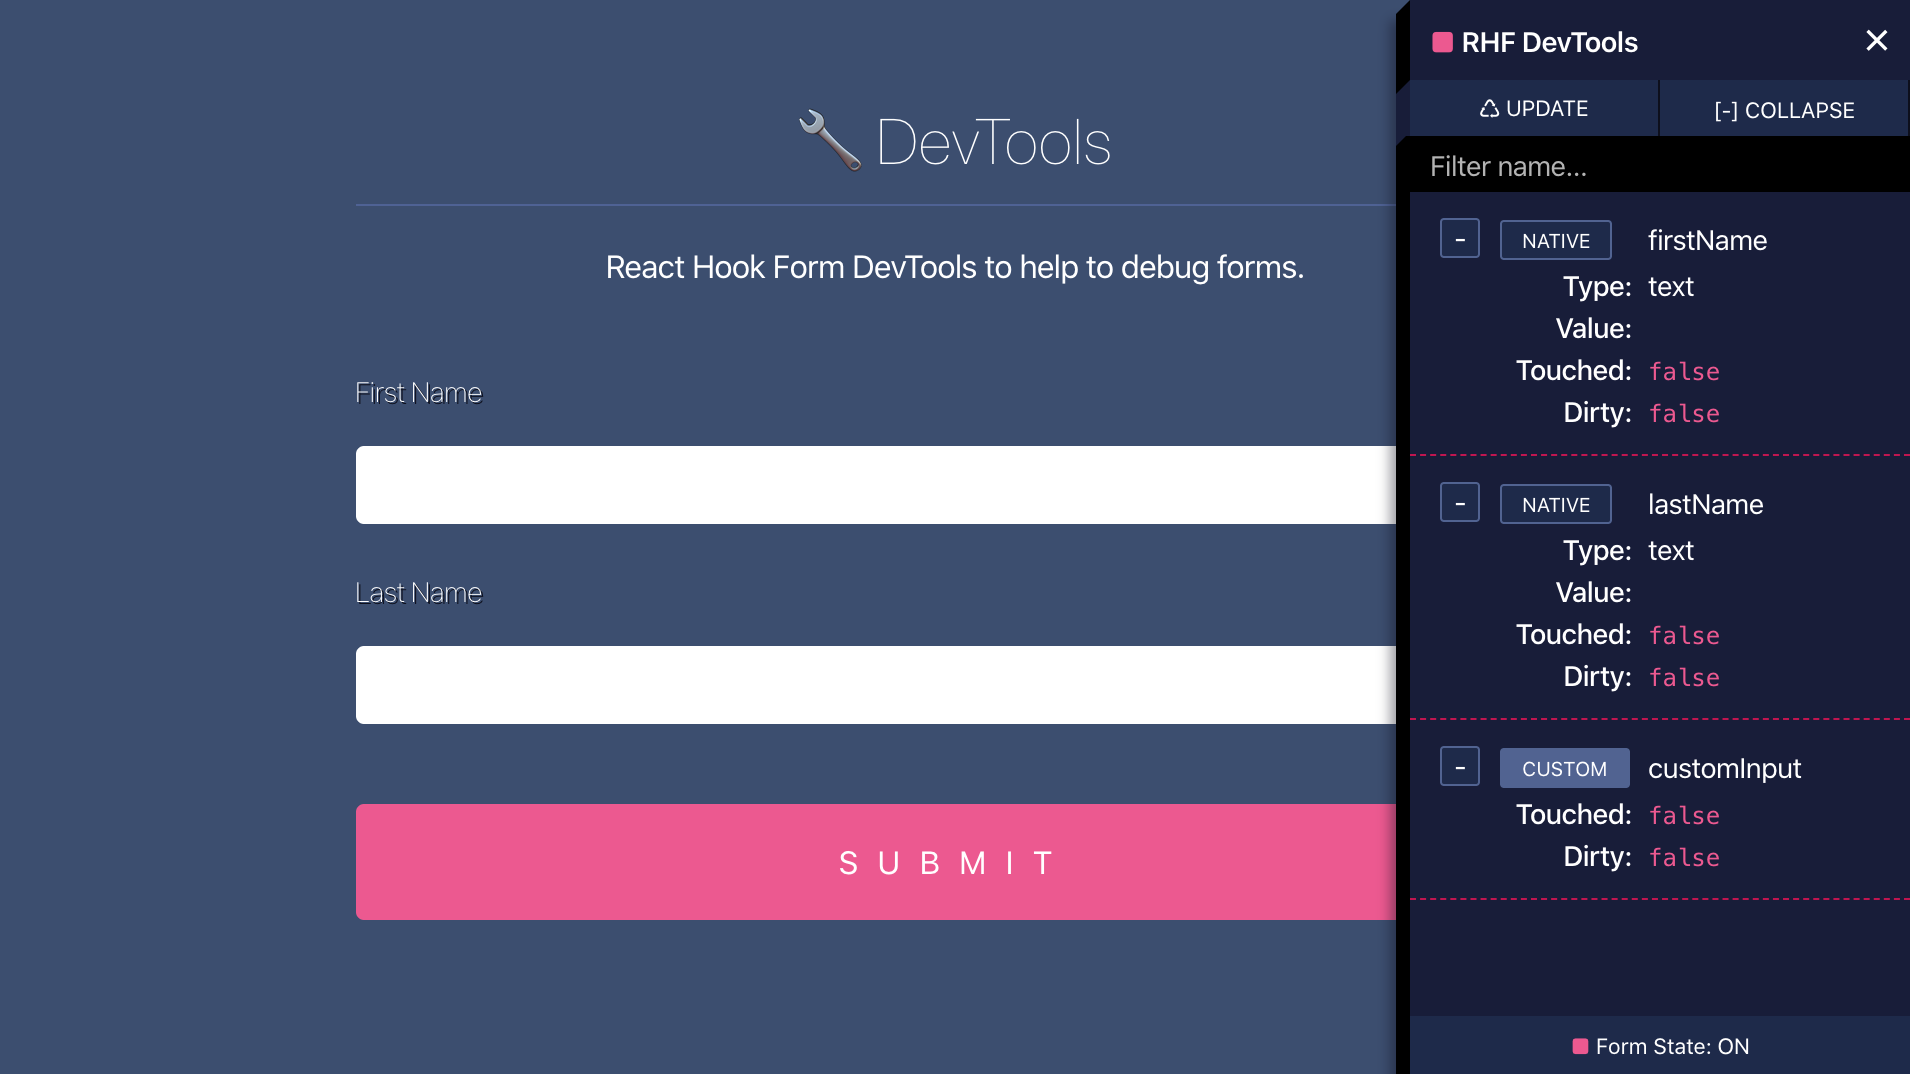
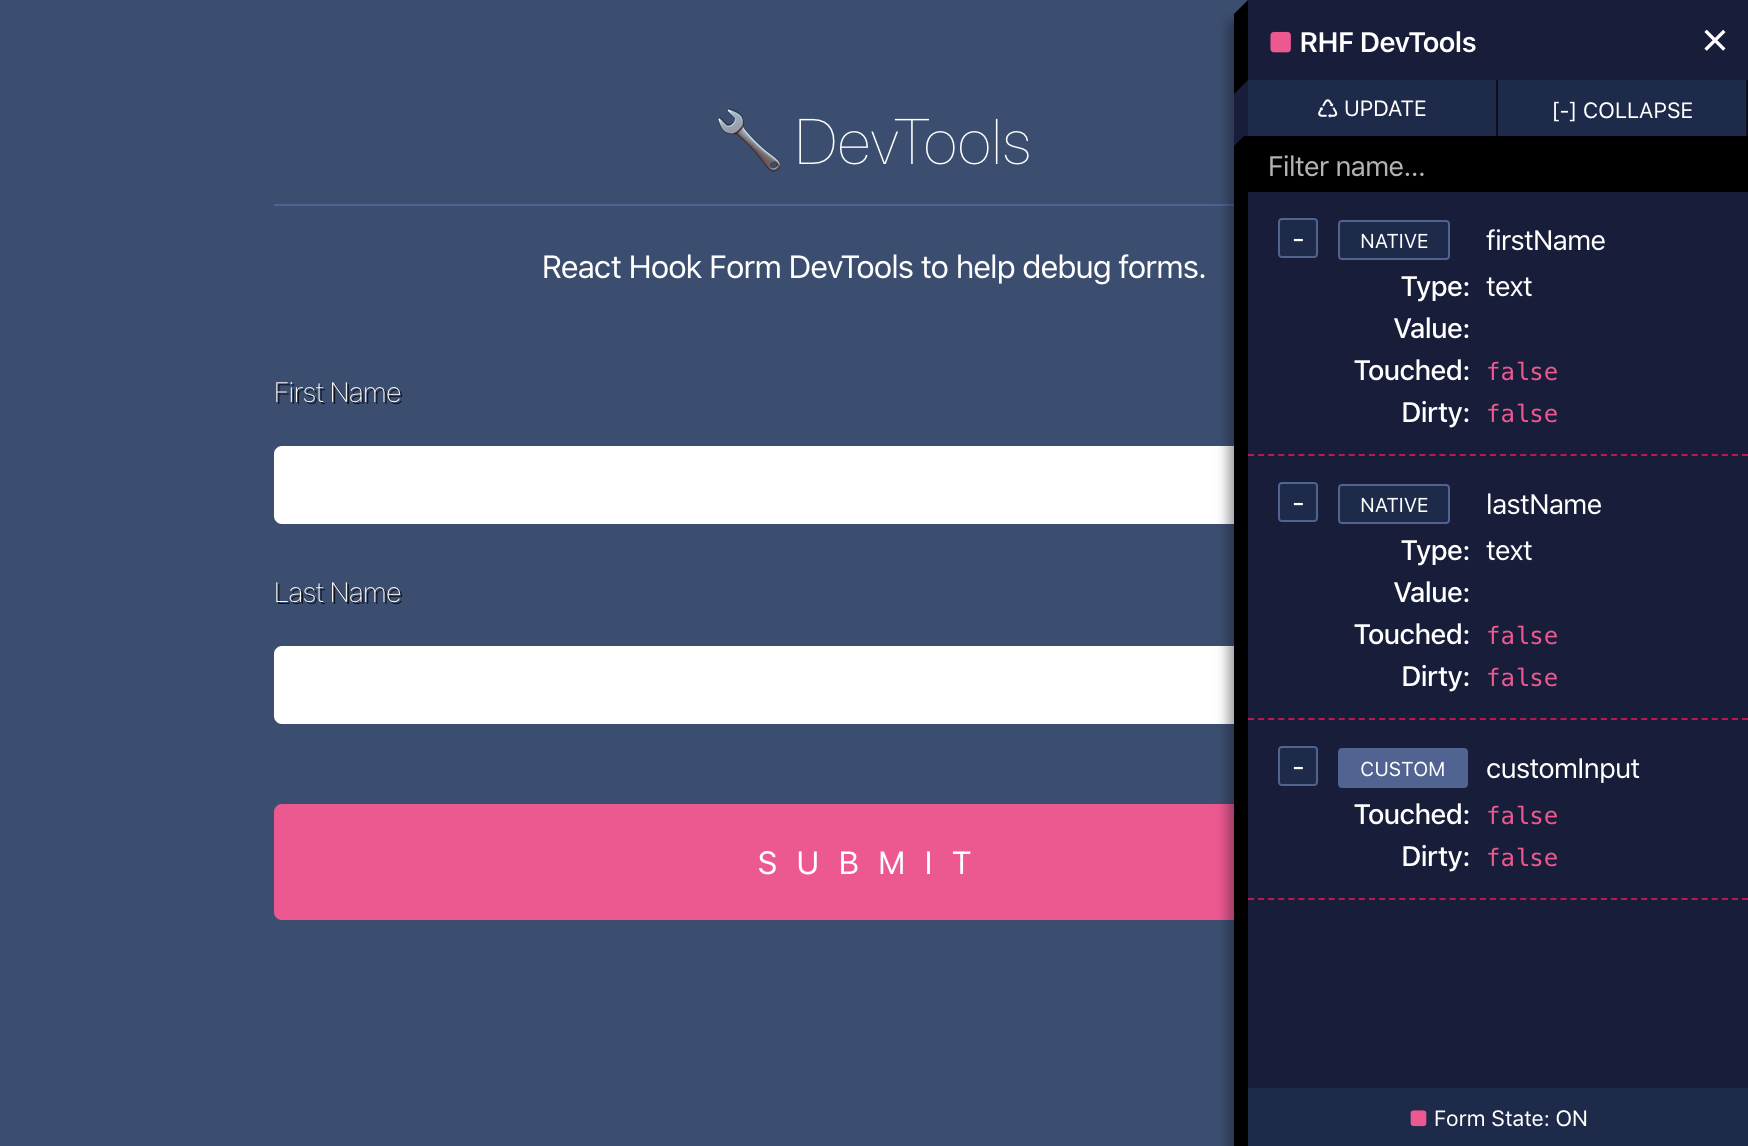
update screenshot

diff --git a/app/src/App.tsx b/app/src/App.tsx
@@ -27,7 +27,7 @@ const App = () => {
           <span role="img" aria-label="devTool">🔧</span> DevTools
         </h1>
         <p style={{ textAlign: 'center' }}>
-          React Hook Form DevTools to help to debug forms.
+          React Hook Form DevTools to help debug forms.
         </p>
         <label>First Name</label>
         <input name="firstName" ref={register({ required: true })} />

diff --git a/README.md b/README.md
@@ -22,7 +22,7 @@
 
 ## Goal
 
-This React Component will help you to debug form when working React Hook Form, and give you more insight about your form's detail.
+This React Component will help you to debug forms when working React Hook Form, and give you more insight about your form's detail.
 
 ## Install
 
